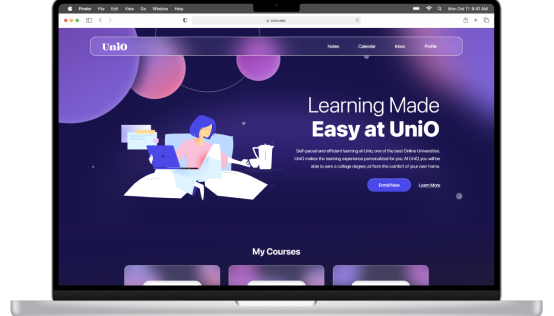
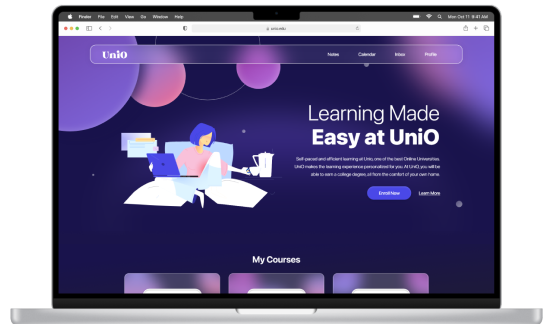
poster picture change

diff --git a/css/general.css b/css/general.css
@@ -44,6 +44,7 @@ html {
     min-width: 120%;
     min-height: 120%;
     filter: blur(3vw);
+    opacity: 0.9;
 }
 .scroll {
     margin: auto;
@@ -752,7 +753,7 @@ button {
     flex-direction: row-reverse;
     margin: 5vw;
     align-items: center;
-    color: #33506B;
+    color: #233b51;
 }
 .label, .scroll {
     margin-top: 0!important;

diff --git a/css/content.css b/css/content.css
@@ -414,3 +414,17 @@ strong {
         text-align: center;
     }
 }
+
+/* Skeleton */
+.skeleton {
+    animation: skeleton-color 1s linear infinite alternate;
+}
+
+@keyframes skeleton-color {
+    0% {
+        background-color: hsl(200, 20%, 70%);
+    }
+    100% {
+        background-color: hsl(200, 20%, 90%);
+    }
+}
